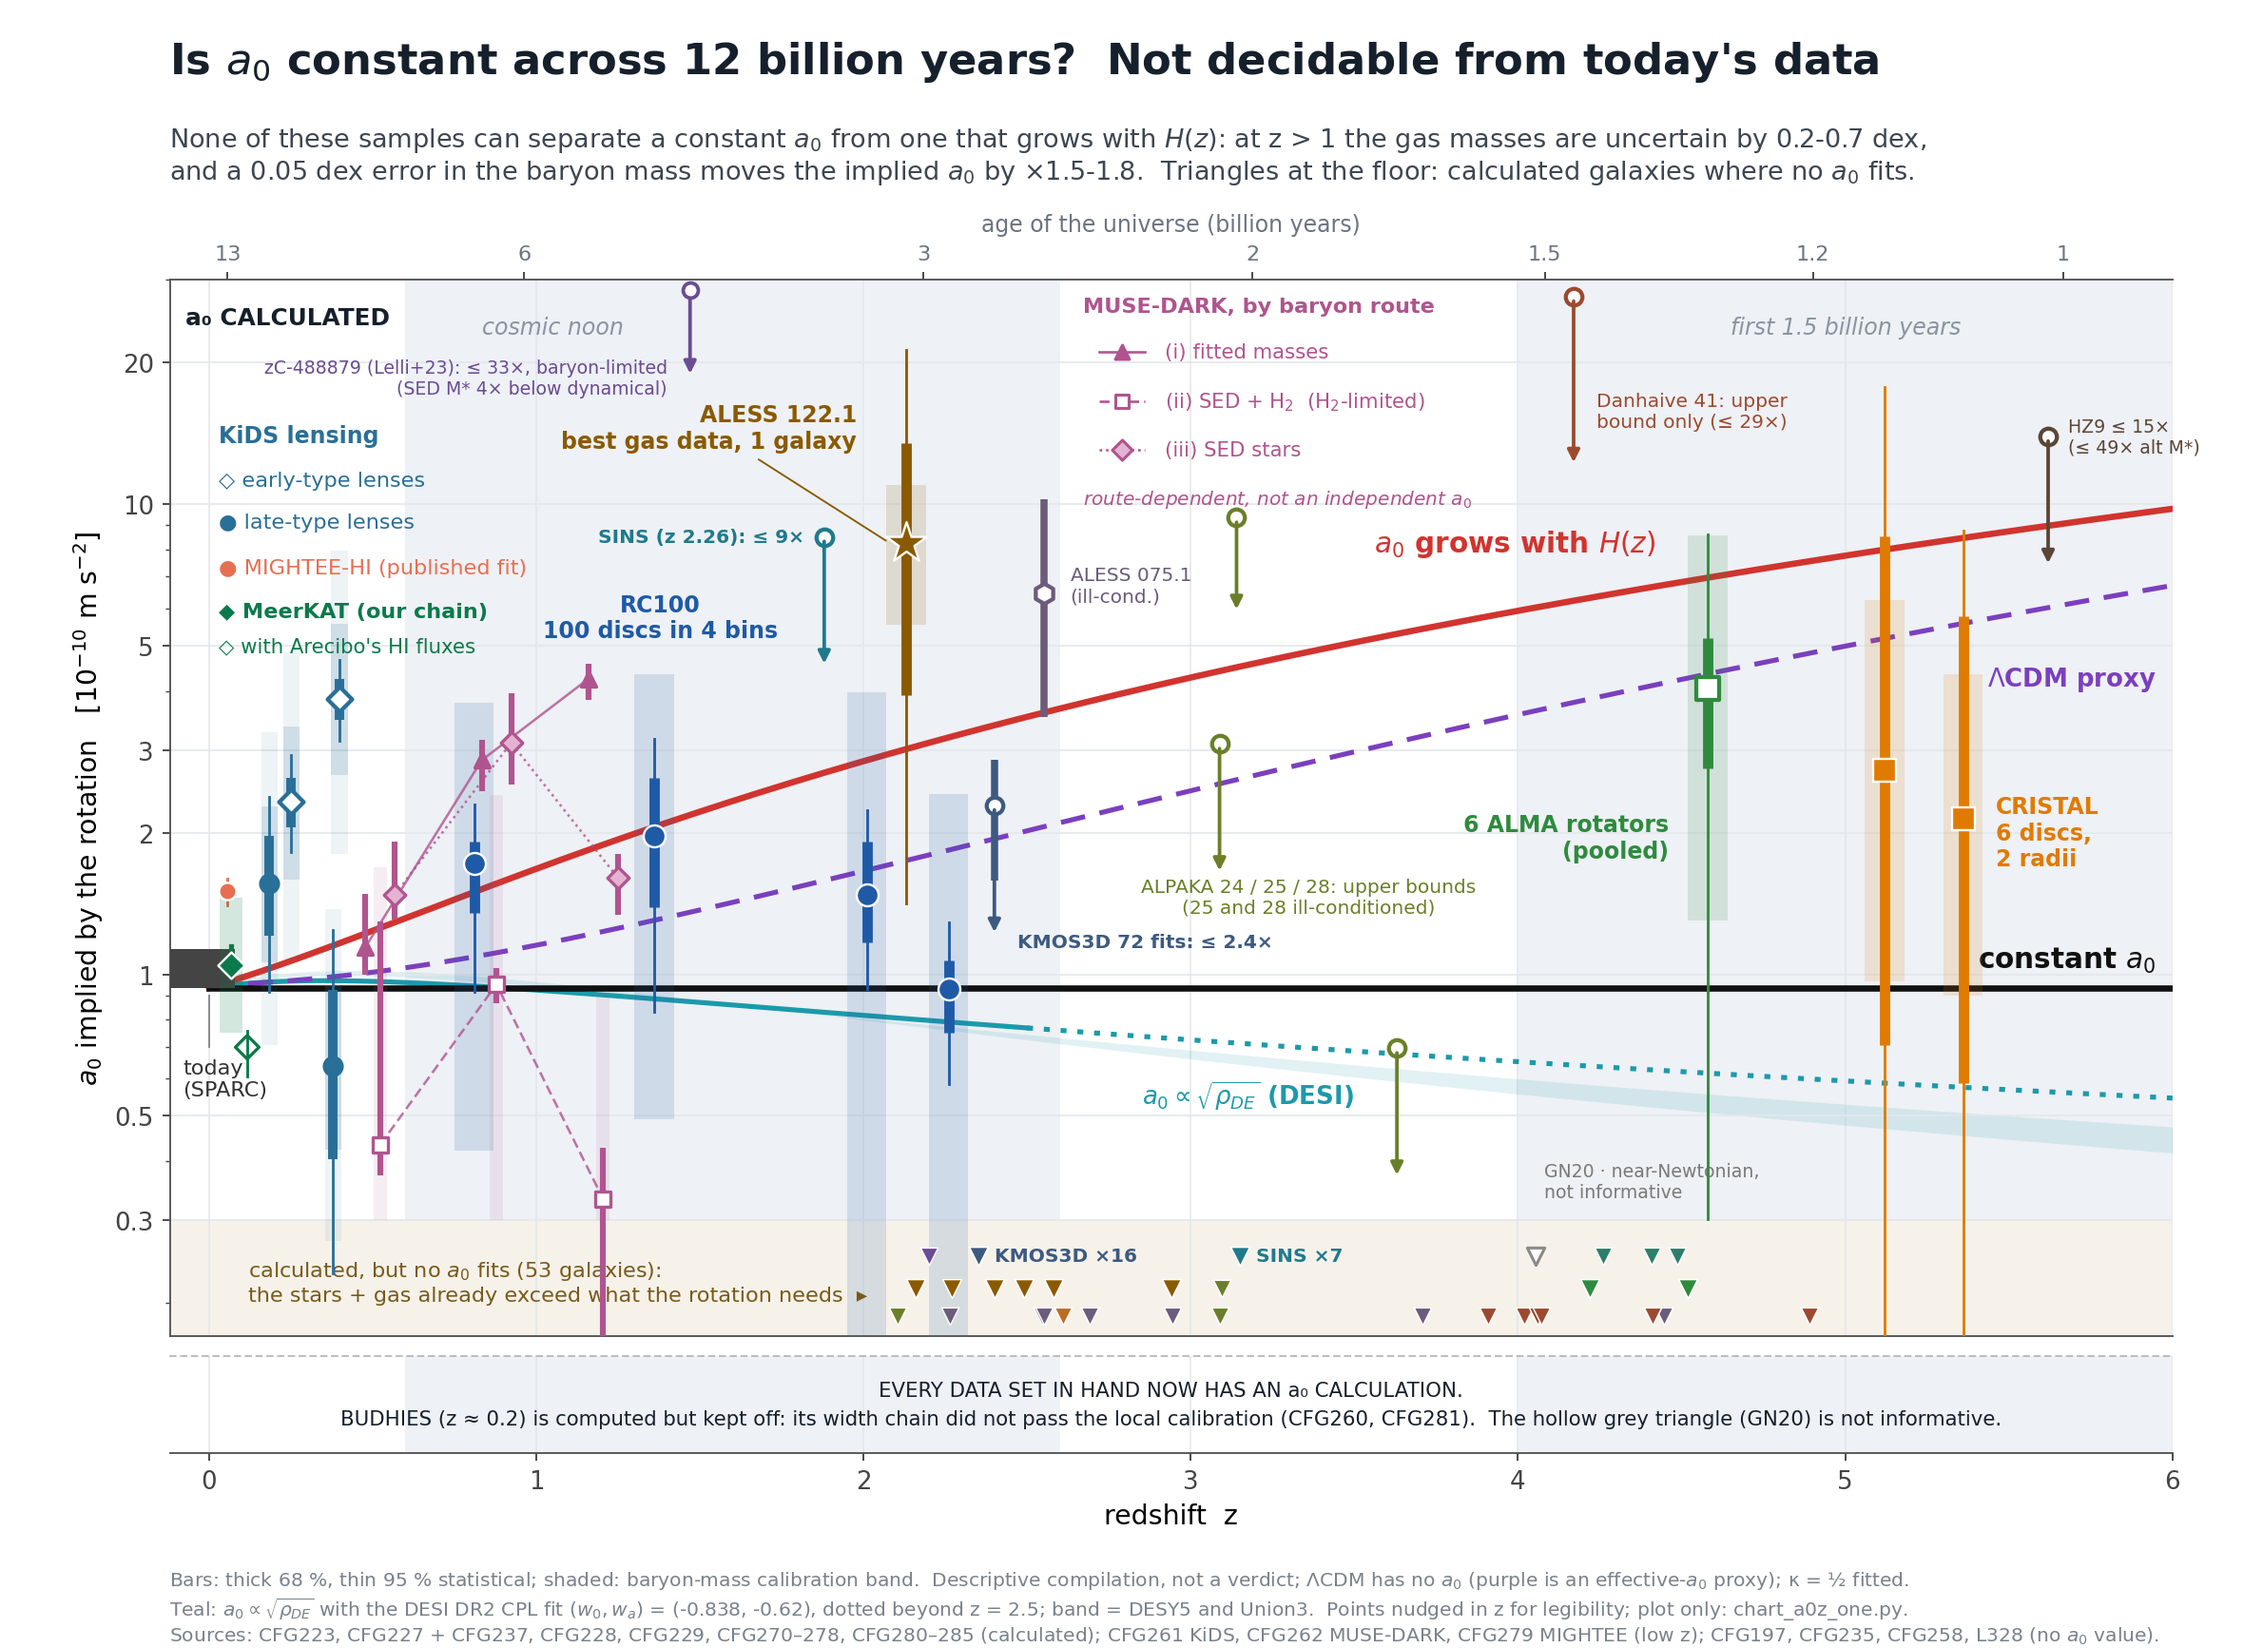
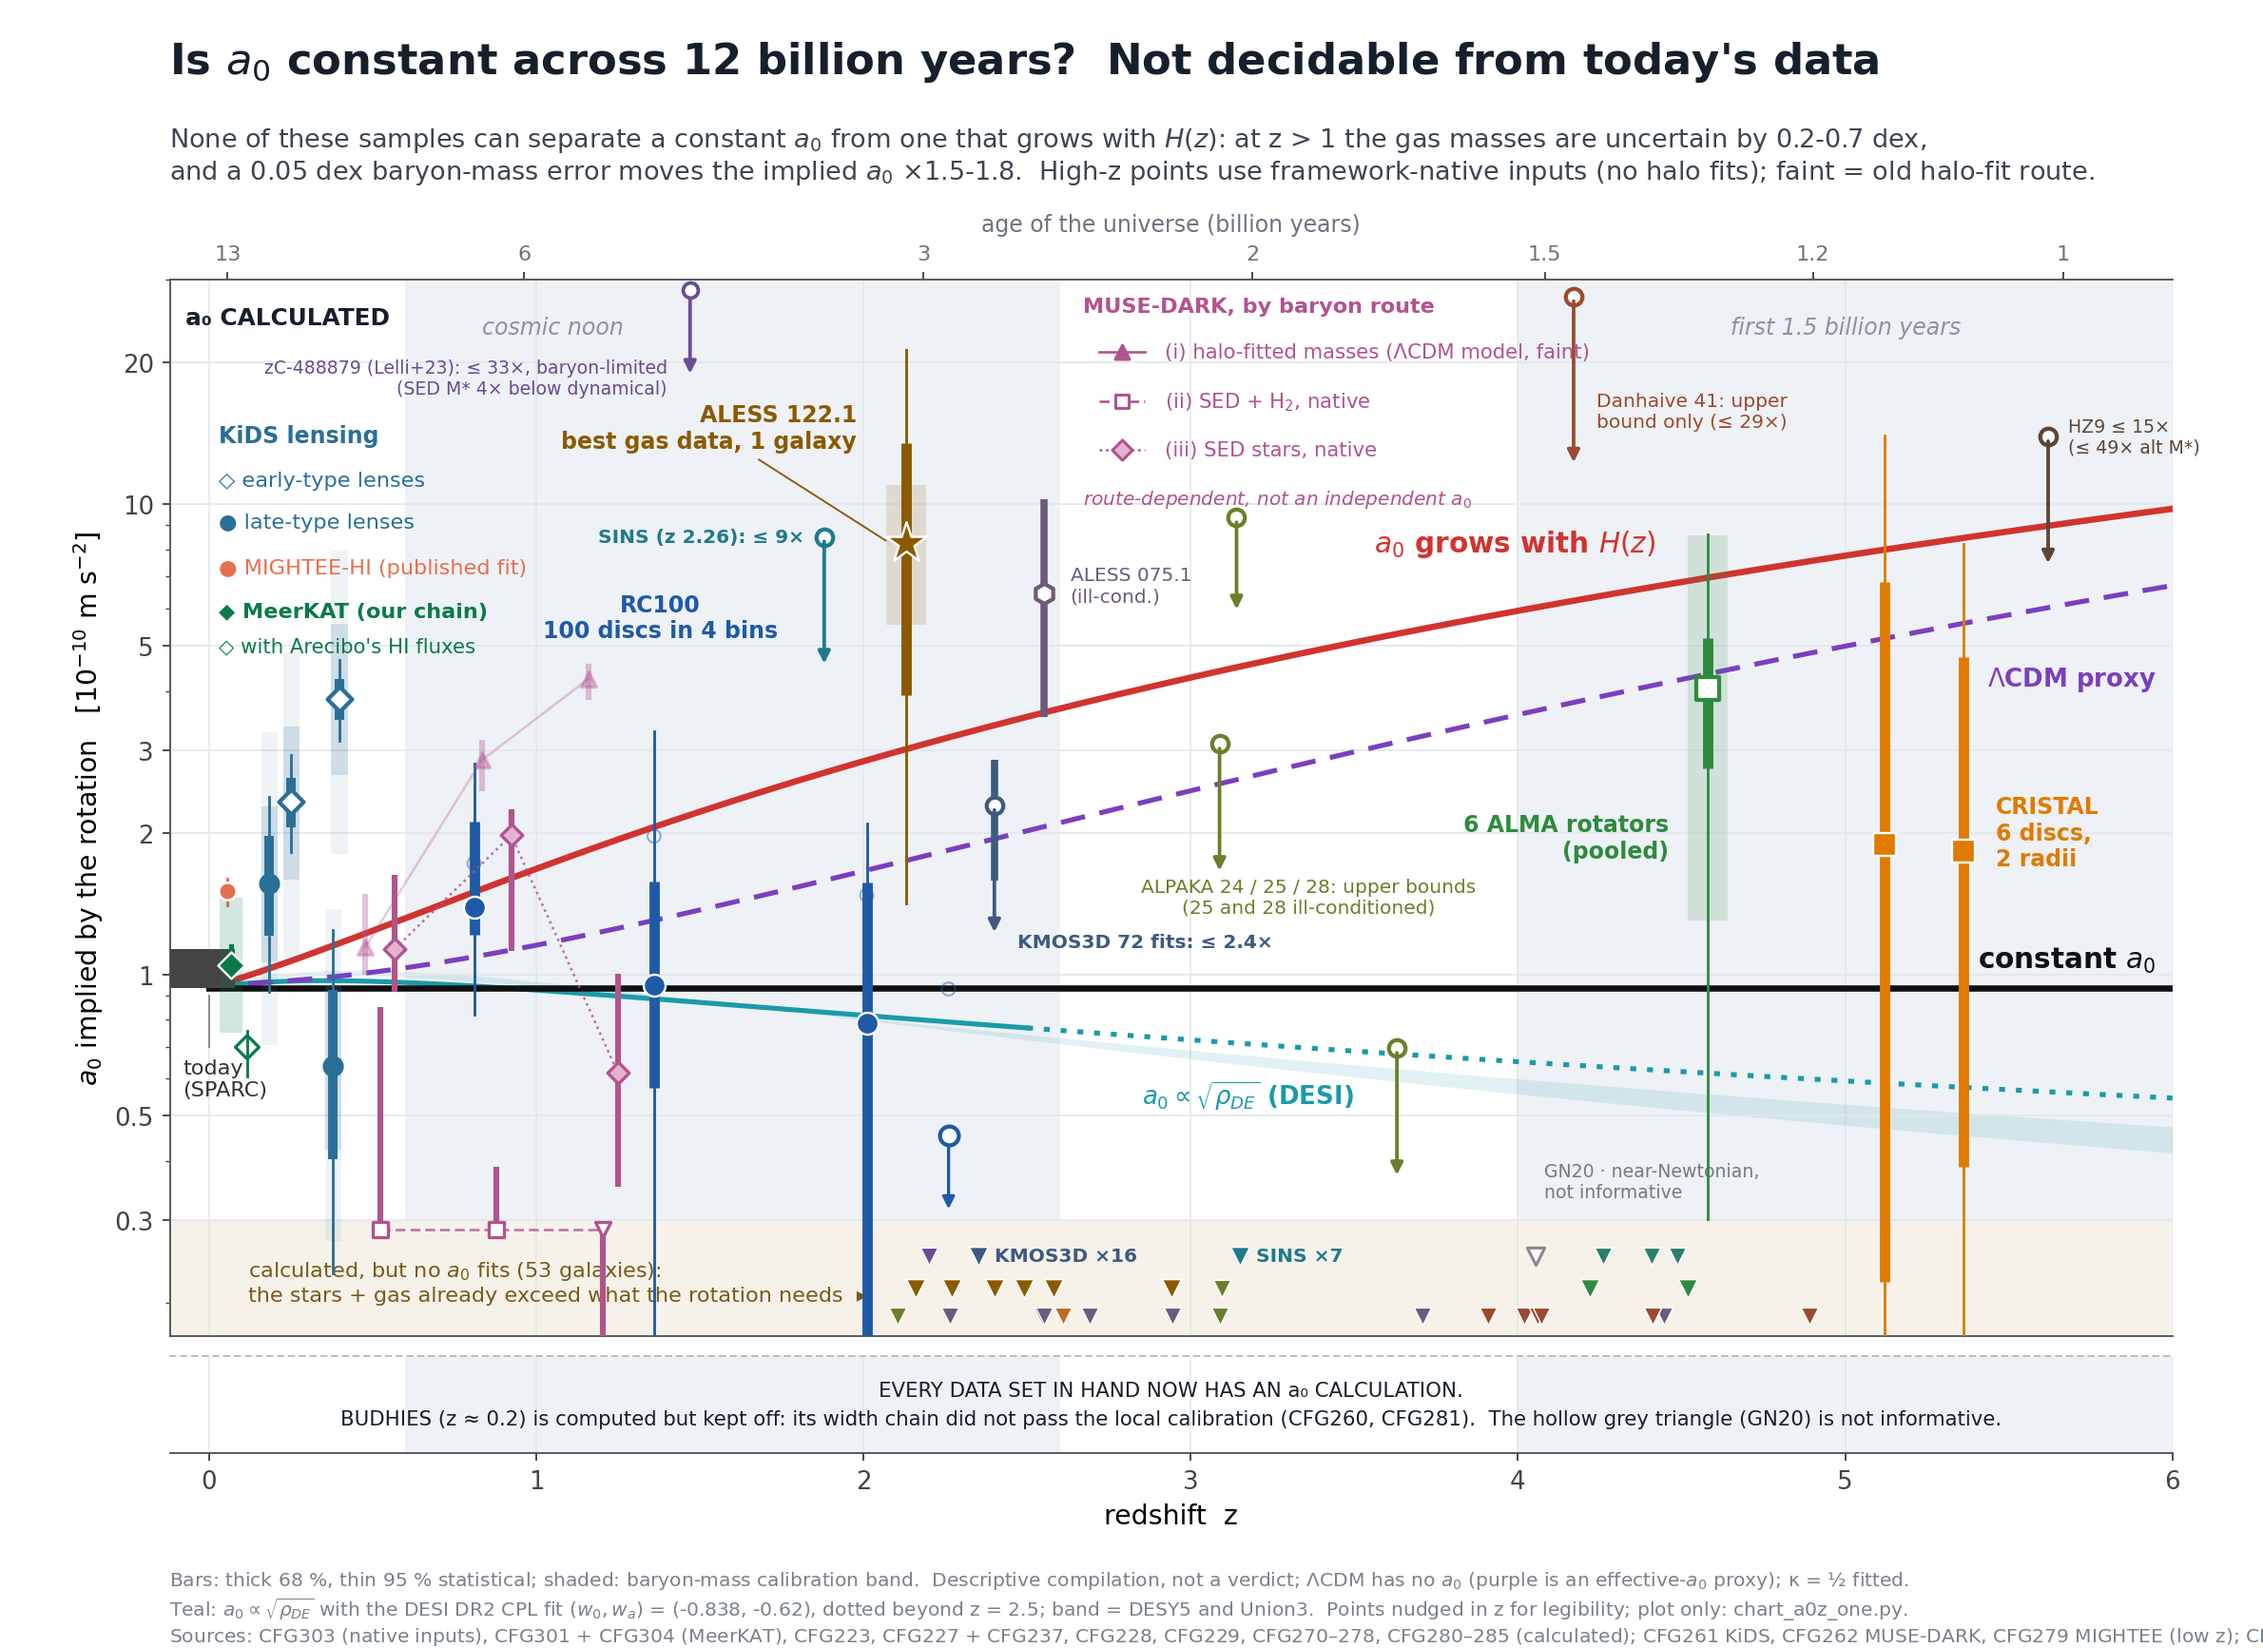
CHART one-chart on framework-native inputs (CFG303, 2d9bdc1b9): RC100 native route B quartiles 1.48 / 1.01 / 0.84 / no-root (upper-limit arrow), CRISTAL native R_e 2.01 / R_out 1.95, MUSE-DARK routes ii/iii native (route i DC14 halo-fitted drawn faint); old halo-fit routes faint; subtitle states it;

diff --git a/campaign_fresh_gravity/CHART_a0z_rar_z0_5_2026-10-01/chart_a0z_one.py b/campaign_fresh_gravity/CHART_a0z_rar_z0_5_2026-10-01/chart_a0z_one.py
@@ -137,15 +137,36 @@ def point(r, x, col, mk, size, hollow=False):
     ax.plot([x, x], [lo68 * U, min(hi68, YHI / U) * U], color=col, lw=4.6, zorder=4, solid_capstyle="butt")
     ax.scatter([x], [s * U], marker=mk, s=size, zorder=6, facecolor="white" if hollow else col,
                edgecolor=col if hollow else "white", linewidth=1.8 if hollow else 1.0)
+# CFG303 (2d9bdc1b9): FRAMEWORK-NATIVE inputs (owner: "use all the data using our framework not ACDM assumptions"):
+# RC100 route B = SED M* (Table 3 col 6) + scaling-relation gas, through CFG223's estimator; no halo-fit f_DM or M_fit enters.
+J303 = json.load(open(os.path.join(CFG, "CFG303_lcdm_free_inputs", "cfg303_rc100_cristal_LCDMFREE_results.json")))
+J303 = J303.get("numbers", J303)["points"]
+def npoint(r, x, col, mk, size):
+    s_, l68, h68, l95, h95 = r["s"], max(r["lo68"], YLO / U), r["hi68"], max(r["lo95"], YLO / U), r["hi95"]
+    ax.plot([x, x], [l95 * U, min(h95, YHI / U) * U], color=col, lw=1.2, zorder=4)
+    ax.plot([x, x], [l68 * U, min(h68, YHI / U) * U], color=col, lw=4.6, zorder=4, solid_capstyle="butt")
+    ax.scatter([x], [s_ * U], marker=mk, s=size, zorder=6, facecolor=col, edgecolor="white", linewidth=1.0)
 for q in ("Q1", "Q2", "Q3", "Q4"):
-    r = pts[f"RC100 corr {q}"]; point(r, f(r, "z"), COL["RC100"], "o", 95)
+    r = pts[f"RC100 corr {q}"]   # the old route through the halo fit's f_DM: faint hollow marker only
+    ax.scatter([f(r, "z")], [f(r, "s_star") * U], marker="o", s=34, facecolor="none", edgecolor=COL["RC100"], lw=0.9, alpha=0.45, zorder=5)
+    rn = J303["RC100"][f"B {q}"]
+    if rn["unbounded"]:   # no root: the stars + gas already exceed the rotation in most resamples
+        ax.annotate("", xy=(rn["z_med"], 0.31), xytext=(rn["z_med"], rn["hi95"] * U), arrowprops=dict(arrowstyle="-|>", color=COL["RC100"], lw=1.4))
+        ax.scatter([rn["z_med"]], [rn["hi95"] * U], marker="o", s=70, facecolor="white", edgecolor=COL["RC100"], lw=1.8, zorder=6)
+    else:
+        npoint(rn, rn["z_med"], COL["RC100"], "o", 95)
+check("CFG303 RC100 native route B quartiles: s* 1.483 / 1.014 / 0.842 / no root (16 of 27 discs D <= 1) (2d9bdc1b9)",
+      [round(J303["RC100"][f"B Q{i}"]["s"], 3) for i in (1, 2, 3)] == [1.483, 1.014, 0.842] and J303["RC100"]["B Q4"]["unbounded"])
 ax.text(1.38, 5.2, "RC100\n100 discs in 4 bins", color=COL["RC100"], fontsize=10, ha="center", fontweight="bold")
 r = pts["ALESS_122.1"]; point(r, 2.13, COL["M"], "*", 360)
 ax.annotate("ALESS 122.1\nbest gas data, 1 galaxy", xy=(2.08, f(r, "s_star") * U), xytext=(1.98, 14.5), fontsize=10, ha="right",
             color=COL["M"], fontweight="bold", va="center", arrowprops=dict(arrowstyle="-", color=COL["M"], lw=0.8))
 r = pts["ALPINE6 pooled"]; point(r, 4.58, COL["ALMA"], "s", 110, hollow=True)
 ax.text(4.46, 1.95, "6 ALMA rotators\n(pooled)", color=COL["ALMA"], fontsize=10, ha="right", va="center", fontweight="bold")
-point(pts["CR R_e ind"], 5.12, COL["CRISTAL"], "s", 95); point(pts["CR R_out ind"], 5.36, COL["CRISTAL"], "s", 95)
+npoint(J303["CRISTAL"]["R_e native, six"], 5.12, COL["CRISTAL"], "s", 95)
+npoint(J303["CRISTAL"]["R_out native, six, outermost data marker (primary)"], 5.36, COL["CRISTAL"], "s", 95)
+check("CFG303 CRISTAL native: R_e 2.01, R_out (outermost data marker) 1.95 (2d9bdc1b9)",
+      abs(J303["CRISTAL"]["R_e native, six"]["s"] - 2.0137) < 1e-3 and abs(J303["CRISTAL"]["R_out native, six, outermost data marker (primary)"]["s"] - 1.953) < 1e-3)
 ax.text(5.46, 2.0, "CRISTAL\n6 discs,\n2 radii", color=COL["CRISTAL"], fontsize=10, ha="left", va="center", fontweight="bold")
 # calculated, no solution
 NRX = {"SINS_BX610": 2.16, "ALPAKA15": 2.27, "ALPAKA18": 2.40, "ALPAKA19": 2.49, "ALPAKA20": 2.58, "ALPAKA22": 2.94,
@@ -228,19 +249,34 @@ ax.text(0.12, 0.222, f"calculated, but no $a_0$ fits ({N_NR} galaxies):\nthe sta
 # MUSE-DARK (CFG262, fb24a5922): implied a0 in z-thirds BY BARYON ROUTE, reading bD (projected + asymmetric drift, CFG236's
 # best-supported reading). Routes are separate series and are never pooled; all inputs are one DC14 fit plus an SED mass.
 COL_MD = "#b0548f"
-RSTY = {"i": dict(dx=-0.045, mk="^", ls="-", fc=COL_MD, lab="(i) fitted masses"),
-        "ii": dict(dx=0.0, mk="s", ls=(0, (4, 2)), fc="white", lab="(ii) SED + H$_2$  (H$_2$-limited)"),
-        "iii": dict(dx=0.045, mk="D", ls=(0, (1, 1.6)), fc="#e3b3d1", lab="(iii) SED stars")}
+RSTY = {"i": dict(dx=-0.045, mk="^", ls="-", fc=COL_MD, lab="(i) halo-fitted masses (ΛCDM model, faint)"),
+        "ii": dict(dx=0.0, mk="s", ls=(0, (4, 2)), fc="white", lab="(ii) SED + H$_2$, native"),
+        "iii": dict(dx=0.045, mk="D", ls=(0, (1, 1.6)), fc="#e3b3d1", lab="(iii) SED stars, native")}
+# CFG303: routes (ii) and (iii) re-derived WITHOUT the DC14 fit's (1 - f_DM) (native, primary 'noHI', reading bD); route (i) uses
+# the DC14 halo-fitted masses (a LCDM-model input) and is drawn faint.
+M303 = json.load(open(os.path.join(CFG, "CFG303_lcdm_free_inputs", "cfg303_musedark_LCDMFREE_results.json")))
+M303 = M303.get("numbers", M303)["rows"]
+check("CFG303 MUSE-DARK native route iii z-thirds 1.21 / 2.11 / 0.66 (2d9bdc1b9)",
+      [round(M303[f"noHI (primary)|z{i}-routeiii-bD"]["s"], 2) for i in (1, 2, 3)] == [1.21, 2.11, 0.66])
 for rt, st in RSTY.items():
+    if rt in ("ii", "iii"):
+        nrows = [M303[f"noHI (primary)|z{i}-route{rt}-bD"] for i in (1, 2, 3)]
+        xs = [r["z"] + st["dx"] for r in nrows]; ys = [max(r["s"], 0.287 / U) * U for r in nrows]
+        ax.plot(xs, ys, color=COL_MD, lw=1.1, ls=st["ls"], zorder=4, alpha=0.8)
+        for r, xx, yy in zip(nrows, xs, ys):
+            lo, hi = max(10 ** r["itv"]["lo68"], 0.287 / U), 10 ** r["itv"]["hi68"]
+            ax.plot([xx, xx], [lo * U, hi * U], color=COL_MD, lw=2.6, zorder=5, solid_capstyle="butt")
+            ax.scatter([xx], [yy], marker=st["mk"] if not r["no_root"] and r["s"] > 0.0011 else "v", s=46, facecolor=st["fc"], edgecolor=COL_MD, linewidth=1.4, zorder=6)
+        continue
     rows = sorted([r for r in M262 if r["route"] == rt], key=lambda r: f(r, "z"))
     xs = [f(r, "z") + st["dx"] for r in rows]; ys = [f(r, "s_star") * U for r in rows]
-    ax.plot(xs, ys, color=COL_MD, lw=1.1, ls=st["ls"], zorder=4, alpha=0.8)
+    ax.plot(xs, ys, color=COL_MD, lw=1.1, ls=st["ls"], zorder=4, alpha=0.30)
     for r, xx, yy in zip(rows, xs, ys):
         if rt == "ii":
             lo, hi = max(f(r, "outer_lo"), 0.30 / U), f(r, "outer_hi")   # clipped at the floor zone
             ax.add_patch(plt.Rectangle((xx - 0.02, lo * U), 0.04, (hi - lo) * U, color=COL_MD, alpha=0.10, lw=0, zorder=3))
-        ax.plot([xx, xx], [f(r, "stat68_lo") * U, f(r, "stat68_hi") * U], color=COL_MD, lw=2.6, zorder=5, solid_capstyle="butt")
-        ax.scatter([xx], [yy], marker=st["mk"], s=46, facecolor=st["fc"], edgecolor=COL_MD, linewidth=1.4, zorder=6)
+        ax.plot([xx, xx], [f(r, "stat68_lo") * U, f(r, "stat68_hi") * U], color=COL_MD, lw=2.6, zorder=5, solid_capstyle="butt", alpha=0.35)
+        ax.scatter([xx], [yy], marker=st["mk"], s=46, facecolor=st["fc"], edgecolor=COL_MD, linewidth=1.4, zorder=6, alpha=0.35)
 lx, ly = 2.72, 21.0
 ax.text(lx - 0.05, ly * 1.22, "MUSE-DARK, by baryon route", color=COL_MD, fontsize=9.5, fontweight="bold", ha="left")
 for k, (rt, st) in enumerate(RSTY.items()):
@@ -329,10 +365,10 @@ for x in range(7): ax.axvline(x, color="#e4e7eb", lw=0.7, zorder=0)
 fig.text(0.075, 0.955, "Is $a_0$ constant across 12 billion years?  Not decidable from today's data",
          fontsize=19, fontweight="bold", color=INK)
 fig.text(0.075, 0.905, "None of these samples can separate a constant $a_0$ from one that grows with $H(z)$: at z > 1 the gas masses are uncertain by 0.2-0.7 dex,\n"
-         "and a 0.05 dex error in the baryon mass moves the implied $a_0$ by ×1.5-1.8.  Triangles at the floor: calculated galaxies where no $a_0$ fits.",
+         "and a 0.05 dex baryon-mass error moves the implied $a_0$ ×1.5-1.8.  High-z points use framework-native inputs (no halo fits); faint = old halo-fit route.",
          fontsize=11.5, color="#3d4651", va="center")
 fig.text(0.075, 0.004, "Bars: thick 68 %, thin 95 % statistical; shaded: baryon-mass calibration band.  Descriptive compilation, not a verdict; "
-         "ΛCDM has no $a_0$ (purple is an effective-$a_0$ proxy); κ = ½ fitted.\nTeal: $a_0 \\propto \\sqrt{\\rho_{DE}}$ with the DESI DR2 CPL fit ($w_0, w_a$) = (-0.838, -0.62), dotted beyond z = 2.5; band = DESY5 and Union3.  Points nudged in z for legibility; plot only: chart_a0z_one.py.\nSources: CFG223, CFG227 + CFG237, CFG228, CFG229, CFG270–278, CFG280–285 (calculated); CFG261 KiDS, CFG262 MUSE-DARK, CFG279 MIGHTEE (low z); CFG197, CFG235, CFG258, L328 (no $a_0$ value).",
+         "ΛCDM has no $a_0$ (purple is an effective-$a_0$ proxy); κ = ½ fitted.\nTeal: $a_0 \\propto \\sqrt{\\rho_{DE}}$ with the DESI DR2 CPL fit ($w_0, w_a$) = (-0.838, -0.62), dotted beyond z = 2.5; band = DESY5 and Union3.  Points nudged in z for legibility; plot only: chart_a0z_one.py.\nSources: CFG303 (native inputs), CFG301 + CFG304 (MeerKAT), CFG223, CFG227 + CFG237, CFG228, CFG229, CFG270–278, CFG280–285 (calculated); CFG261 KiDS, CFG262 MUSE-DARK, CFG279 MIGHTEE (low z); CFG197, CFG235, CFG258, L328 (no $a_0$ value).",
          fontsize=8.6, color="#7a828c")
 fig.savefig(os.path.join(HERE, "chart_a0z_one_2026-10-01.png"), dpi=170)
 P(f"{sum(CHECKS)}/{len(CHECKS)} checks pass; wrote chart_a0z_one_2026-10-01.png")

diff --git a/campaign_fresh_gravity/CHART_a0z_rar_z0_5_2026-10-01/README.md b/campaign_fresh_gravity/CHART_a0z_rar_z0_5_2026-10-01/README.md
@@ -82,3 +82,9 @@ All are near-Newtonian (y 18–90), so these are statements of baryon excess, no
 - **What is not drawn:** the per-window points (W1–W3, 15–16 galaxies each). The z lever across the sample is 0.009 dex, so the point is a local level, not a test of a₀(z).
 - **The orange dot** (MIGHTEE-HI published fit, CFG279) is the authors' own fit level and stays as it was.
 - **Update after CFG304 (34e40dac6):** the hollow green diamond now marks the Arecibo (ALFALFA) single-dish flux scale applied to the gas only: a₀ = 7.0e-11 (bar 6.1–7.6e-11), drawn at z + 0.05. The single dish sees more HI than the catalogue (−0.195 dex), so the earlier cube-scale marker (2.29e-10) is ruled out and is no longer drawn.
+
+## 2026-10-02: framework-native inputs (CFG303, 2d9bdc1b9), at the owner's direction ("use all the data using our framework not ΛCDM assumptions")
+- **RC100:** the four filled blue circles are now CFG303's native route B (SED M★ + scaling-relation gas through CFG223's estimator; no halo-fit f_DM or M_fit): s★ 1.48 / 1.01 / 0.84 at z 0.81 / 1.36 / 2.01. Q4 (z 2.26) has no root: the stars and gas exceed the rotation in 84% of resamples. It is drawn as an upper-limit arrow from its 95% upper bound (0.485). The old halo-fit-route values remain as small faint hollow circles.
+- **CRISTAL:** the two orange squares are the native R_e (2.01) and R_out at the outermost data marker (1.95), replacing the fit-route points.
+- **MUSE-DARK:** routes (ii) and (iii) are CFG303's native versions (primary "noHI", reading bD), with no DC14 (1 − f_DM). Values below the floor-zone edge are drawn at 0.287 (×10⁻¹⁰); a no-root value is drawn as a hollow triangle. Route (i), the DC14 halo-fitted masses (a ΛCDM-model input), is drawn faint.
+- The subtitle states the change. 31/31 checks.
